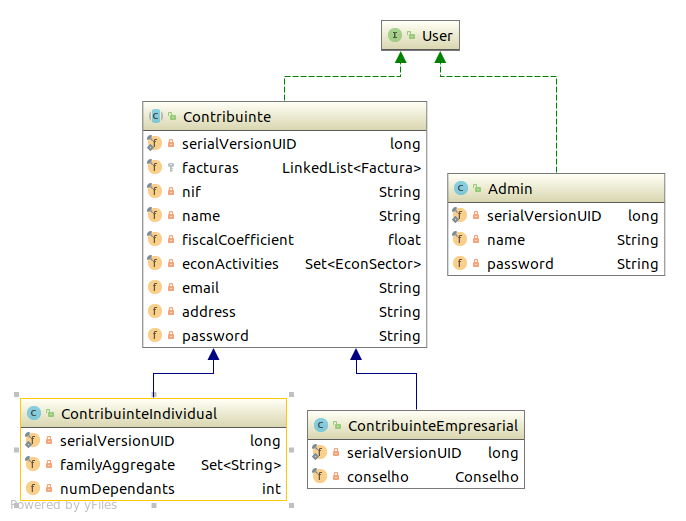
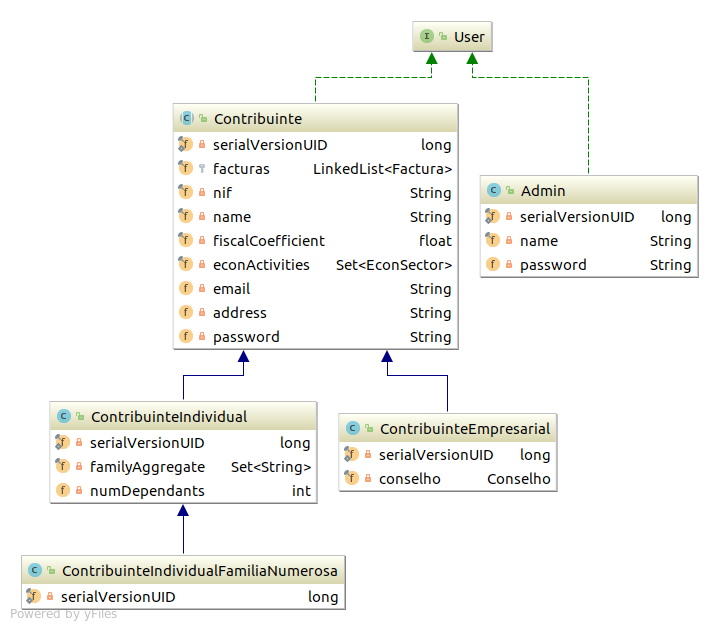
Report Familia Numerosa

Changed region(s): [[0.0, 0.0307, 0.9796, 0.9827], [0.6735, 0.1228, 0.8265, 0.1536]]

diff --git a/report/Report.tex b/report/Report.tex
@@ -15,7 +15,7 @@
 \usepackage[cache=false]{minted}
 \usepackage{pdflscape}
 \usepackage[titletoc]{appendix}
-\usepackage{hyperref}
+\usepackage[hidelinks]{hyperref}
 \geometry{
  a4paper,
  top=2cm,
@@ -206,7 +206,11 @@ public interface Deductible {
     facturas como as suas despesas e os sectores economicos como o conjunto
     de despesas de onde pode deduzir. Estes têm a capacidade de alterar o
     sector ecnomico das suas facturas.
-%TODO FamNum
+
+    Mais tarde foi também adicionada a noção de \textbf{familia numerosa}, esta
+    introduz a noção de familias com mais apoio social, sendo que implementam um
+    metodo que permite reduzir o imposto pago.
+
     \begin{figure}[H]
         \centering
         \includegraphics[width=11cm]{./images/UserHierarquy.png}
